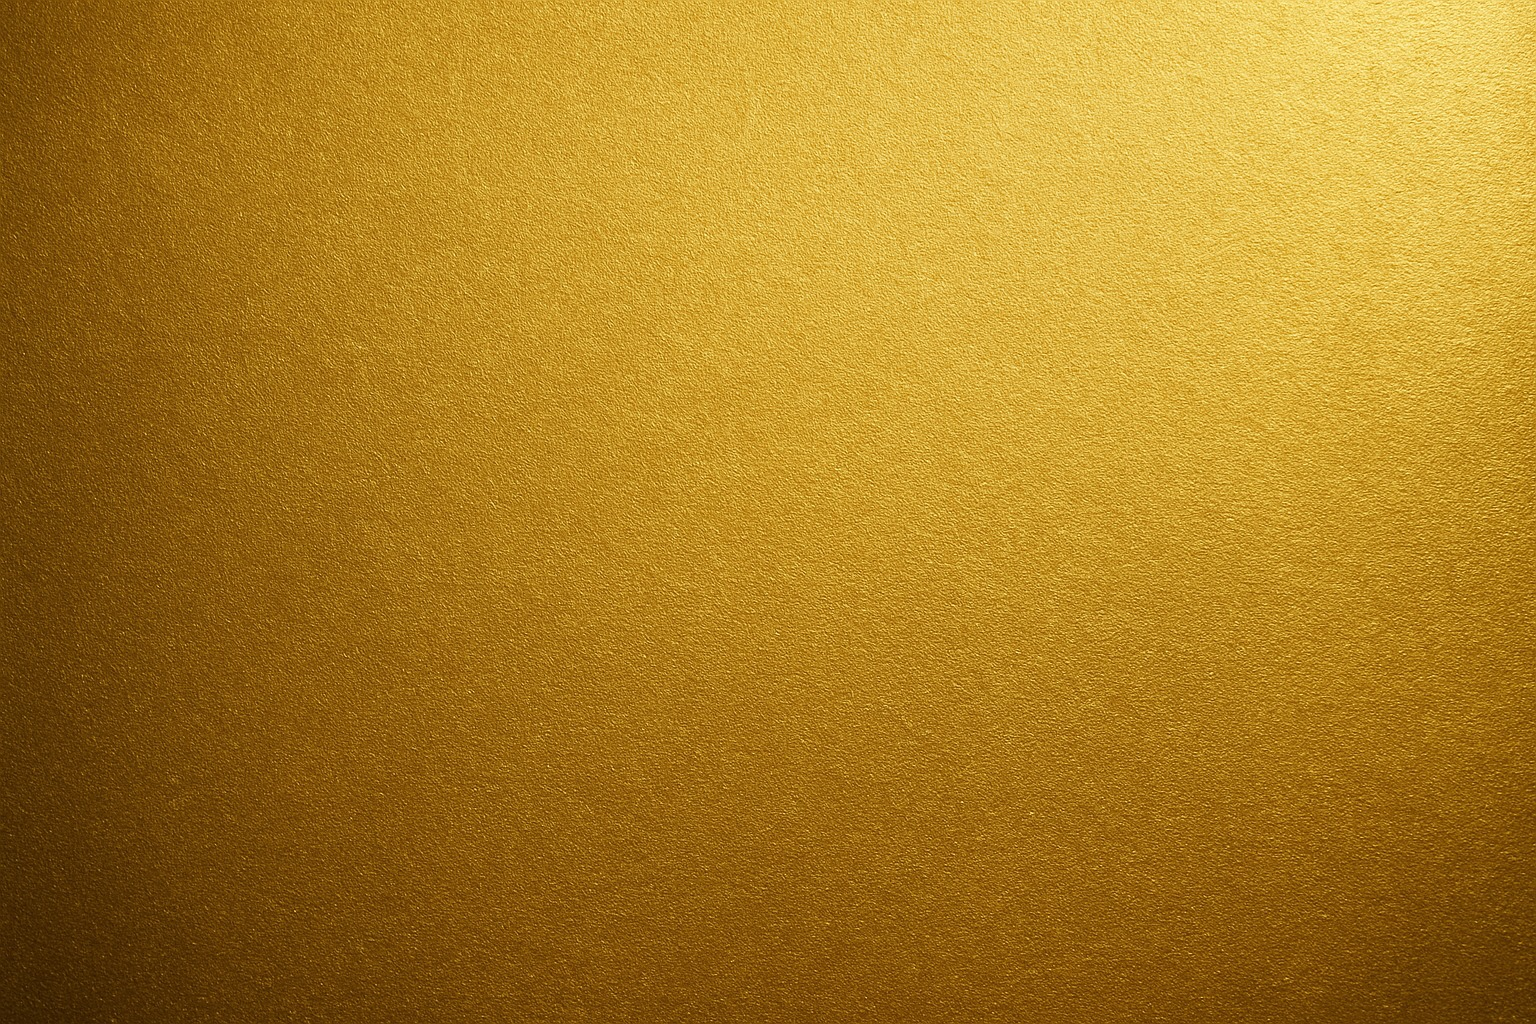
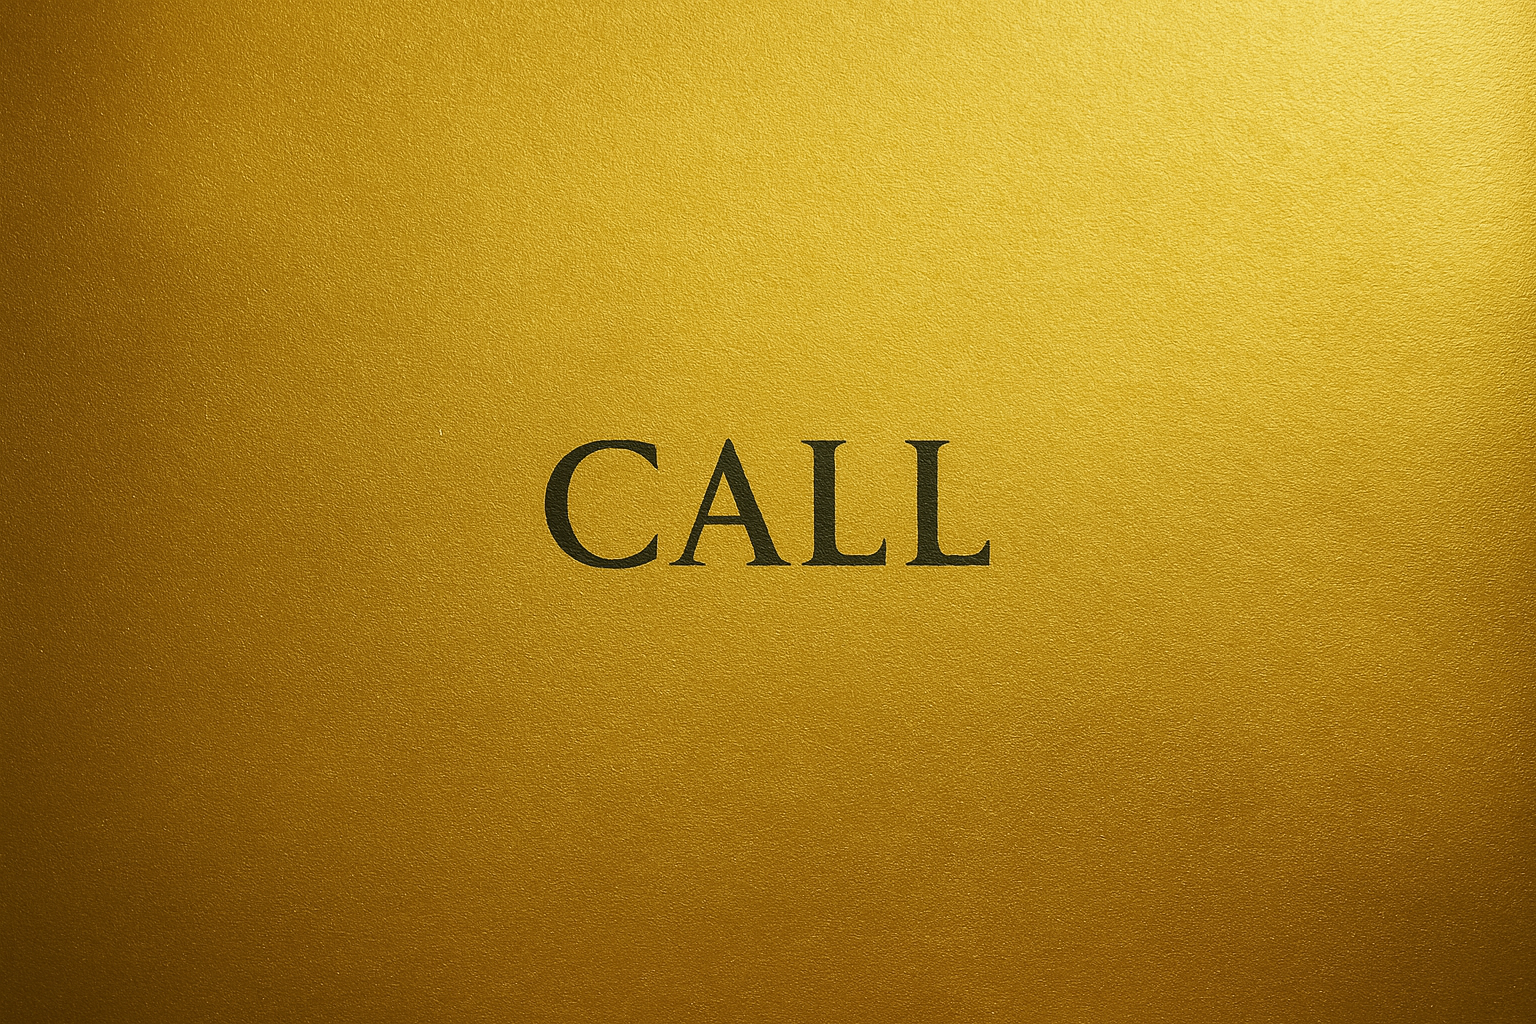
components/CtaArt.tsx, public/assets/images/cta/cta-bg.jpg and public/assets/images/cta/cta-bg.webp

Changed region(s): [[0.0938, 0.0, 1.0, 1.0], [0.125, 0.5312, 0.1562, 0.5625]]

diff --git a/components/CtaArt.tsx b/components/CtaArt.tsx
@@ -1,0 +1,47 @@
+import * as React from "react";
+import Image from "next/image";
+import clsx from "clsx";
+
+type Props = { className?: string };
+
+export default function CtaArt({ className }: Props) {
+  // Try webp then jpg; add a cache-buster so any old 404 isn't reused by the CDN
+  const candidates = React.useMemo(
+    () => [
+      "/assets/images/cta/cta-bg.webp?v=2",
+      "/assets/images/cta/cta-bg.jpg?v=2",
+    ],
+    []
+  );
+
+  const [idx, setIdx] = React.useState(0);
+  const src = candidates[idx];
+  const fallback =
+    "linear-gradient(135deg, rgba(253,224,71,0.9), rgba(234,179,8,0.9))";
+
+  return (
+    <div
+      className={clsx(
+        "relative overflow-hidden rounded-2xl border border-lightGrey shadow-card",
+        "aspect-[4/3] w-full", // gives the box a real height
+        className
+      )}
+      aria-hidden="true"
+    >
+      {/* graceful fallback if image fails twice */}
+      {idx >= candidates.length ? (
+        <div className="absolute inset-0" style={{ background: fallback }} />
+      ) : (
+        <Image
+          src={src}
+          alt=""
+          fill
+          sizes="(max-width: 768px) 100vw, 33vw"
+          className="object-cover"
+          onError={() => setIdx((i) => (i + 1 < candidates.length ? i + 1 : i + 1))}
+          priority={false}
+        />
+      )}
+    </div>
+  );
+}
